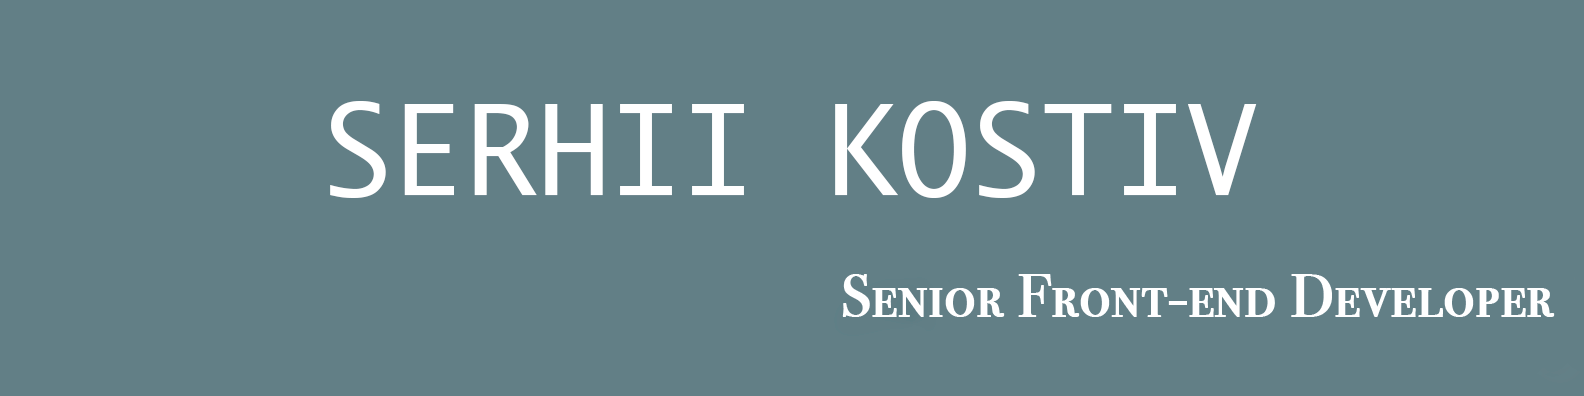
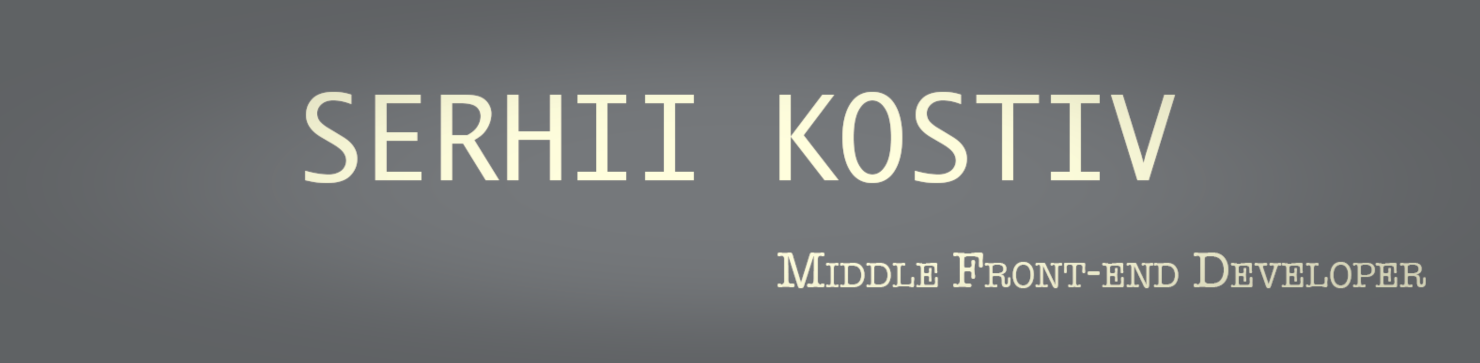
update

diff --git a/README.md b/README.md
@@ -3,7 +3,7 @@
 ## I'm a Front-end Developer!
 
 - I'm From Ukraine (Ivano-Frankivsk);
-- 5+ Years Experience in Front-end Development;
+- 4+ Years Experience in Front-end Development;
 - Front-end Enthusiast.
 
 ### Connect with me:
